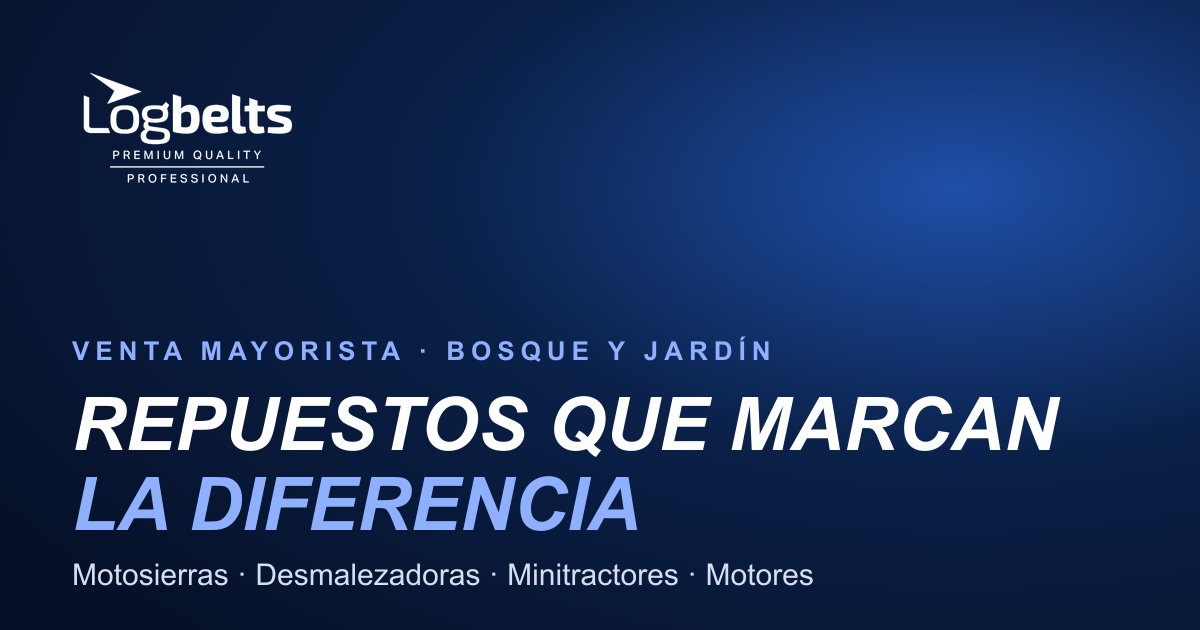
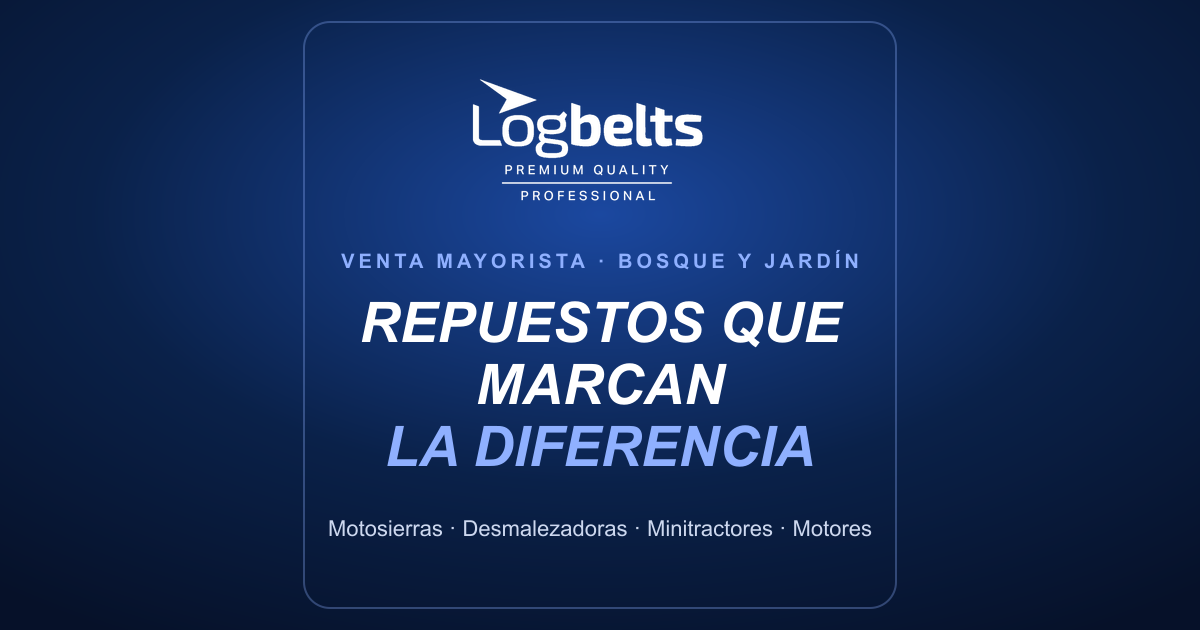
Cinta de marcas: se arrastra con el mouse y el dedo (sin abrir el link al arrastrar); imagen para compartir centrada, que no se corta en Instagram ni WhatsApp

diff --git a/app/components/sitio/CintaMarcas.js b/app/components/sitio/CintaMarcas.js
@@ -1,18 +1,126 @@
+'use client';
+
 /* eslint-disable @next/next/no-img-element */
+
+import { useEffect, useRef } from 'react';
 
 // Logos claros (texto blanco) que necesitan placa oscura para verse.
 const LOGOS_CLAROS = new Set(['echo', 'troy-bilt']);
 
-/** Cinta en movimiento con las marcas del catálogo; cada una lleva a sus repuestos (/m/<marca>). */
+/**
+ * Cinta de marcas del catálogo; cada una lleva a sus repuestos (/m/<marca>).
+ * Se mueve sola y se puede arrastrar con el mouse o el dedo (la lista está duplicada,
+ * así el desplazamiento vuelve al principio sin saltos). Al arrastrar no se abre el link.
+ */
 export default function CintaMarcas({ marcas }) {
+  const ventana = useRef(null);
+
+  useEffect(() => {
+    const el = ventana.current;
+    if (!el) return undefined;
+
+    const reducir = window.matchMedia('(prefers-reduced-motion: reduce)');
+    const mitad = () => el.scrollWidth / 2;
+    let arrastrando = false;
+    let pausado = false;
+    let ultimoX = 0;
+    let recorrido = 0;
+    let impulso = 0;
+    let ultimoT = 0;
+    let cuadro = 0;
+
+    const normalizar = () => {
+      const m = mitad();
+      if (m <= 0) return;
+      if (el.scrollLeft >= m) el.scrollLeft -= m;
+      else if (el.scrollLeft <= 0) el.scrollLeft += m;
+    };
+
+    const paso = (t) => {
+      const dt = Math.min((t - (ultimoT || t)) / 1000, 0.05);
+      ultimoT = t;
+      if (!arrastrando) {
+        if (Math.abs(impulso) > 0.1) {
+          el.scrollLeft -= impulso;
+          impulso *= 0.94;
+        } else if (!pausado && !reducir.matches) {
+          el.scrollLeft += 42 * dt;
+        }
+        normalizar();
+      }
+      cuadro = requestAnimationFrame(paso);
+    };
+    cuadro = requestAnimationFrame(paso);
+
+    // Arrastre con el mouse (en pantallas táctiles ya funciona el desplazamiento del navegador)
+    const bajar = (e) => {
+      if (e.pointerType === 'touch') return;
+      arrastrando = true;
+      recorrido = 0;
+      impulso = 0;
+      ultimoX = e.clientX;
+      el.dataset.arrastrando = 'true';
+      try { el.setPointerCapture(e.pointerId); } catch { /* sin puntero activo */ }
+    };
+    const mover = (e) => {
+      if (!arrastrando) return;
+      const dx = e.clientX - ultimoX;
+      ultimoX = e.clientX;
+      recorrido += Math.abs(dx);
+      el.scrollLeft -= dx;
+      impulso = dx;
+      normalizar();
+    };
+    const soltar = (e) => {
+      if (!arrastrando) return;
+      arrastrando = false;
+      delete el.dataset.arrastrando;
+      try { el.releasePointerCapture(e.pointerId); } catch { /* ya liberado */ }
+    };
+    // Si arrastró, el click no debe abrir la marca
+    const click = (e) => {
+      if (recorrido > 6) {
+        e.preventDefault();
+        e.stopPropagation();
+        recorrido = 0;
+      }
+    };
+
+    const entrar = () => { pausado = true; };
+    const salir = () => { pausado = false; };
+
+    el.addEventListener('pointerdown', bajar);
+    el.addEventListener('pointermove', mover);
+    el.addEventListener('pointerup', soltar);
+    el.addEventListener('pointercancel', soltar);
+    el.addEventListener('click', click, true);
+    el.addEventListener('pointerenter', entrar);
+    el.addEventListener('pointerleave', salir);
+    el.addEventListener('focusin', entrar);
+    el.addEventListener('focusout', salir);
+
+    return () => {
+      cancelAnimationFrame(cuadro);
+      el.removeEventListener('pointerdown', bajar);
+      el.removeEventListener('pointermove', mover);
+      el.removeEventListener('pointerup', soltar);
+      el.removeEventListener('pointercancel', soltar);
+      el.removeEventListener('click', click, true);
+      el.removeEventListener('pointerenter', entrar);
+      el.removeEventListener('pointerleave', salir);
+      el.removeEventListener('focusin', entrar);
+      el.removeEventListener('focusout', salir);
+    };
+  }, []);
+
   if (!marcas.length) return null;
 
   const lista = (copia) => (
     <ul className="marcas__lista" aria-hidden={copia || undefined}>
       {marcas.map((m) => (
         <li key={m.slug}>
-          <a className={m.logo ? `marca marca--logo${LOGOS_CLAROS.has(m.slug) ? ' marca--logo-oscuro' : ''}` : 'marca'} href={`/m/${m.slug}`} tabIndex={copia ? -1 : undefined} aria-label={m.logo ? `Repuestos para ${m.nombre}` : undefined}>
-            {m.logo ? <img className="marca__logo" src={m.logo} alt={m.nombre} loading="lazy" /> : <span className="marca__nombre">{m.nombre}</span>}
+          <a className={m.logo ? `marca marca--logo${LOGOS_CLAROS.has(m.slug) ? ' marca--logo-oscuro' : ''}` : 'marca'} href={`/m/${m.slug}`} tabIndex={copia ? -1 : undefined} aria-label={m.logo ? `Repuestos para ${m.nombre}` : undefined} draggable="false">
+            {m.logo ? <img className="marca__logo" src={m.logo} alt={m.nombre} loading="lazy" draggable="false" /> : <span className="marca__nombre">{m.nombre}</span>}
             <span className="marca__n">{m.count.toLocaleString('es-AR')} repuestos</span>
           </a>
         </li>
@@ -26,8 +134,8 @@ export default function CintaMarcas({ marcas }) {
         <p id="marcas-titulo">Repuestos compatibles con estas marcas</p>
         <a href="/#catalogo">Ver catálogo →</a>
       </div>
-      <div className="marcas__ventana">
-        <div className="marcas__pista" style={{ '--duracion': `${Math.max(30, marcas.length * 3)}s` }}>
+      <div className="marcas__ventana" ref={ventana} role="group" aria-label="Marcas compatibles, arrastrá para ver más">
+        <div className="marcas__pista">
           {lista(false)}
           {lista(true)}
         </div>

diff --git a/app/sitio.css b/app/sitio.css
@@ -536,9 +536,12 @@ body:has(.pedido-fab) .whatsapp-flotante { bottom: 82px; }
 .marcas__cabeza p { margin: 0; font-size: 12px; font-weight: 700; letter-spacing: .16em; text-transform: uppercase; color: var(--marca-claro); }
 .marcas__cabeza a { font-size: 13px; font-weight: 700; color: rgba(255,255,255,.75); white-space: nowrap; }
 .marcas__cabeza a:hover { color: #fff; }
-.marcas__ventana { overflow: hidden; -webkit-mask-image: linear-gradient(90deg, transparent, #000 6%, #000 94%, transparent); mask-image: linear-gradient(90deg, transparent, #000 6%, #000 94%, transparent); }
-.marcas__pista { display: flex; width: max-content; animation: sitio-marcas var(--duracion, 60s) linear infinite; }
-.marcas:hover .marcas__pista, .marcas:focus-within .marcas__pista { animation-play-state: paused; }
+.marcas__ventana { overflow-x: auto; overflow-y: hidden; scrollbar-width: none; -ms-overflow-style: none; cursor: grab; touch-action: pan-y; overscroll-behavior-x: contain; -webkit-mask-image: linear-gradient(90deg, transparent, #000 6%, #000 94%, transparent); mask-image: linear-gradient(90deg, transparent, #000 6%, #000 94%, transparent); }
+.marcas__ventana::-webkit-scrollbar { display: none; }
+.marcas__ventana[data-arrastrando] { cursor: grabbing; }
+.marcas__ventana[data-arrastrando] .marca { pointer-events: none; }
+.marcas__pista { display: flex; width: max-content; }
+
 .marcas__lista { display: flex; gap: 12px; margin: 0; padding: 0 6px; list-style: none; }
 .marca { display: flex; flex-direction: column; justify-content: center; min-width: 168px; height: 82px; padding: 10px 22px; border-radius: 12px; border: 1px solid rgba(143,176,255,.18); background: rgba(255,255,255,.03); transition: background-color .2s var(--ease), border-color .2s var(--ease), transform .2s var(--ease); }
 .marca:hover, .marca:focus-visible { background: rgba(143,176,255,.12); border-color: rgba(143,176,255,.55); transform: translateY(-2px); }
